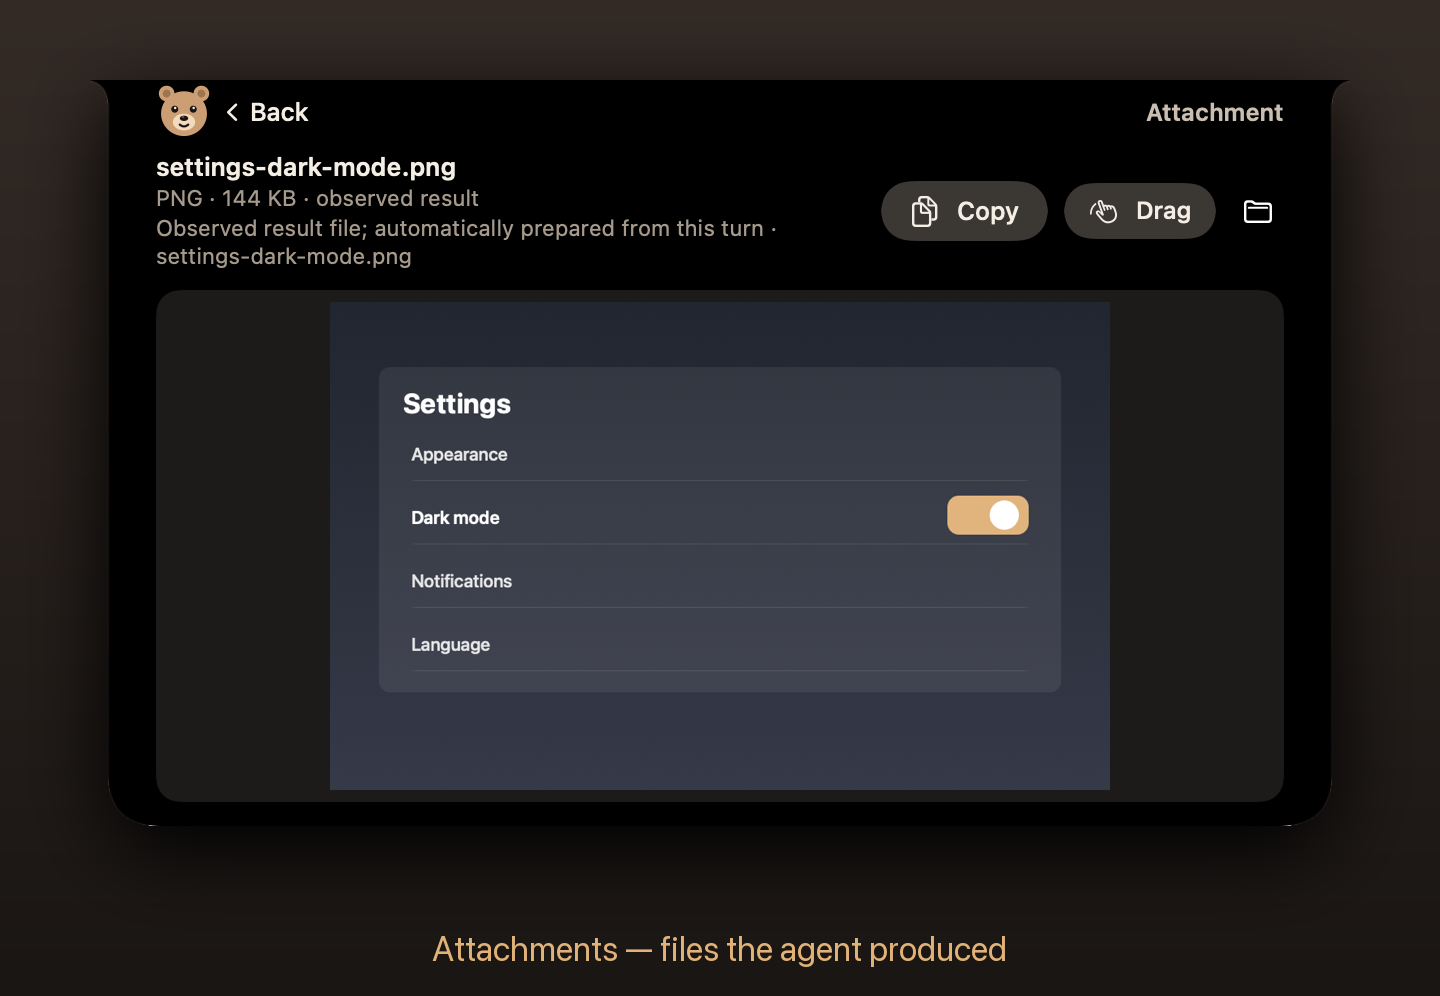
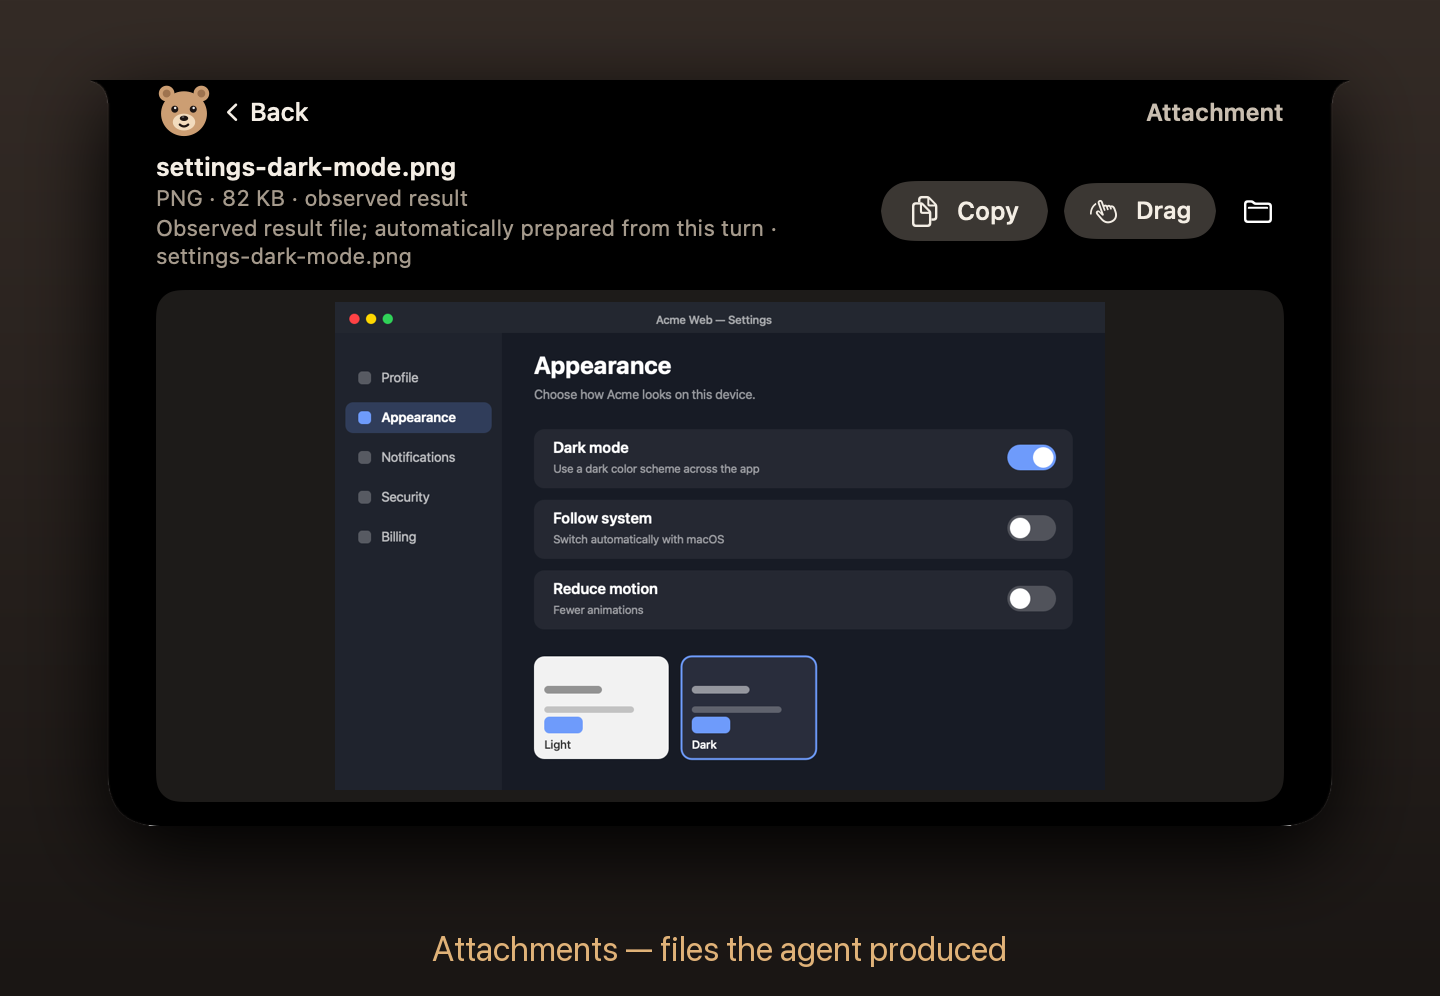
README: realistic app screenshot for the attachment, static diagram instead of the mermaid chart

Changed region(s): [[0.2188, 0.3112, 0.7812, 0.8092], [0.1562, 0.1867, 0.3438, 0.2179], [0.25, 0.3112, 0.2812, 0.3424]]

diff --git a/macos/Tests/PromptRelayKitTests/ReadmeVisualsTests.swift b/macos/Tests/PromptRelayKitTests/ReadmeVisualsTests.swift
@@ -21,27 +21,51 @@ extension Phase6VisualTests {
     All 42 tests pass (`npm test`). I also wrote a short note for the release: `release-notes.md`.
     """
 
-    /// A believable settings-page picture for the attachment (no green square).
+    /// A believable app screenshot for the attachment: a settings page with a sidebar and
+    /// Dark mode switched on (drawn, so the README images never contain real data).
     static func settingsMockPNG() -> Data {
-        let size = NSSize(width: 960, height: 600)
+        let size = NSSize(width: 1200, height: 760)
+        let accent = NSColor(calibratedRed: 0.36, green: 0.52, blue: 0.98, alpha: 1)
         let image = NSImage(size: size, flipped: false) { rect in
-            NSGradient(colors: [NSColor(calibratedRed: 0.10, green: 0.11, blue: 0.14, alpha: 1),
-                                NSColor(calibratedRed: 0.16, green: 0.17, blue: 0.22, alpha: 1)])!.draw(in: rect, angle: -90)
-            func card(_ r: NSRect, _ fill: NSColor) { fill.setFill(); NSBezierPath(roundedRect: r, xRadius: 14, yRadius: 14).fill() }
-            card(NSRect(x: 60, y: 120, width: 840, height: 400), NSColor(white: 1, alpha: 0.07))
-            let title = NSAttributedString(string: "Settings", attributes: [.font: NSFont.systemFont(ofSize: 34, weight: .bold), .foregroundColor: NSColor.white])
-            title.draw(at: NSPoint(x: 90, y: 456))
-            let rows = ["Appearance", "Dark mode", "Notifications", "Language"]
-            for (i, row) in rows.enumerated() {
-                let y = CGFloat(400 - i * 78)
-                NSAttributedString(string: row, attributes: [.font: NSFont.systemFont(ofSize: 22, weight: row == "Dark mode" ? .semibold : .medium),
-                                                              .foregroundColor: NSColor(white: row == "Dark mode" ? 1 : 0.9, alpha: 1)])
-                    .draw(at: NSPoint(x: 100, y: y))
-                card(NSRect(x: 100, y: y - 20, width: 760, height: 1), NSColor(white: 1, alpha: 0.12))
-                if row == "Dark mode" {
-                    card(NSRect(x: 760, y: y - 8, width: 100, height: 48), NSColor(calibratedRed: 0.85, green: 0.65, blue: 0.42, alpha: 1))
-                    NSColor.white.setFill(); NSBezierPath(ovalIn: NSRect(x: 812, y: y - 2, width: 36, height: 36)).fill()
-                }
+            func fill(_ r: NSRect, _ c: NSColor, _ radius: CGFloat = 0) { c.setFill(); NSBezierPath(roundedRect: r, xRadius: radius, yRadius: radius).fill() }
+            func text(_ t: String, _ p: NSPoint, _ size: CGFloat, _ weight: NSFont.Weight = .regular, _ c: NSColor = .white) {
+                NSAttributedString(string: t, attributes: [.font: NSFont.systemFont(ofSize: size, weight: weight), .foregroundColor: c]).draw(at: p)
+            }
+            fill(rect, NSColor(calibratedRed: 0.07, green: 0.08, blue: 0.11, alpha: 1))
+            // window bar
+            fill(NSRect(x: 0, y: 712, width: 1200, height: 48), NSColor(white: 1, alpha: 0.05))
+            for (i, c) in [NSColor.systemRed, .systemYellow, .systemGreen].enumerated() { fill(NSRect(x: 22 + CGFloat(i) * 26, y: 726, width: 16, height: 16), c, 8) }
+            text("Acme Web — Settings", NSPoint(x: 500, y: 722), 18, .medium, NSColor(white: 1, alpha: 0.6))
+            // sidebar
+            fill(NSRect(x: 0, y: 0, width: 260, height: 712), NSColor(white: 1, alpha: 0.035))
+            for (i, item) in ["Profile", "Appearance", "Notifications", "Security", "Billing"].enumerated() {
+                let y = CGFloat(630 - i * 62)
+                if item == "Appearance" { fill(NSRect(x: 16, y: y - 12, width: 228, height: 48), accent.withAlphaComponent(0.22), 12) }
+                fill(NSRect(x: 36, y: y + 2, width: 20, height: 20), item == "Appearance" ? accent : NSColor(white: 1, alpha: 0.25), 6)
+                text(item, NSPoint(x: 72, y: y), 21, item == "Appearance" ? .semibold : .regular, item == "Appearance" ? .white : NSColor(white: 1, alpha: 0.7))
+            }
+            // content
+            text("Appearance", NSPoint(x: 310, y: 640), 38, .bold)
+            text("Choose how Acme looks on this device.", NSPoint(x: 310, y: 604), 20, .regular, NSColor(white: 1, alpha: 0.55))
+            func row(_ y: CGFloat, _ title: String, _ sub: String, on: Bool) {
+                fill(NSRect(x: 310, y: y, width: 840, height: 92), NSColor(white: 1, alpha: 0.06), 16)
+                text(title, NSPoint(x: 340, y: y + 50), 24, .semibold)
+                text(sub, NSPoint(x: 340, y: y + 20), 18, .regular, NSColor(white: 1, alpha: 0.55))
+                fill(NSRect(x: 1048, y: y + 28, width: 76, height: 40), on ? accent : NSColor(white: 1, alpha: 0.2), 20)
+                fill(NSRect(x: on ? 1088 : 1052, y: y + 32, width: 32, height: 32), .white, 16)
+            }
+            row(470, "Dark mode", "Use a dark color scheme across the app", on: true)
+            row(360, "Follow system", "Switch automatically with macOS", on: false)
+            row(250, "Reduce motion", "Fewer animations", on: false)
+            // theme preview cards
+            for (i, (name, dark)) in [("Light", false), ("Dark", true)].enumerated() {
+                let x = CGFloat(310 + i * 230)
+                fill(NSRect(x: x, y: 48, width: 210, height: 160), dark ? NSColor(calibratedRed: 0.12, green: 0.13, blue: 0.18, alpha: 1) : NSColor(white: 0.95, alpha: 1), 16)
+                fill(NSRect(x: x + 16, y: 150, width: 90, height: 12), dark ? NSColor(white: 1, alpha: 0.5) : NSColor(white: 0.2, alpha: 0.5), 6)
+                fill(NSRect(x: x + 16, y: 120, width: 140, height: 10), dark ? NSColor(white: 1, alpha: 0.25) : NSColor(white: 0.2, alpha: 0.25), 5)
+                fill(NSRect(x: x + 16, y: 28 + 60, width: 60, height: 26), accent, 8)
+                text(name, NSPoint(x: x + 16, y: 60), 18, .medium, dark ? .white : NSColor(white: 0.2, alpha: 1))
+                if dark { NSColor.white.withAlphaComponent(0.9).setStroke(); let b = NSBezierPath(roundedRect: NSRect(x: x, y: 48, width: 210, height: 160), xRadius: 16, yRadius: 16); b.lineWidth = 3; accent.setStroke(); b.stroke() }
             }
             return true
         }

diff --git a/scripts/make-diagram.py b/scripts/make-diagram.py
@@ -1,0 +1,41 @@
+#!/usr/bin/env python3
+"""Draws docs/images/readme/how-it-works.png (the README diagram)."""
+import sys
+from PIL import Image, ImageDraw, ImageFont
+
+out = sys.argv[1] if len(sys.argv) > 1 else "docs/images/readme/how-it-works.png"
+W, H = 2400, 760
+img = Image.new("RGB", (W, H))
+d = ImageDraw.Draw(img)
+for y in range(H):
+    t = y / H
+    d.line([(0, y), (W, y)], fill=tuple(int(a * (1 - t) + b * t) for a, b in zip((52, 43, 38), (26, 22, 20))))
+f_title = ImageFont.truetype("/System/Library/Fonts/SFNS.ttf", 52)
+f_body = ImageFont.truetype("/System/Library/Fonts/SFNS.ttf", 36)
+f_num = ImageFont.truetype("/System/Library/Fonts/SFNS.ttf", 40)
+steps = [
+    ("Your agent", ["Claude Code or Codex", "does the work as usual"]),
+    ("Prompt Relay", ["Keeps the final answer", "exactly as written, with the", "request, project and files"]),
+    ("Copy", ["Copy Answer, or Copy with", "Context for a reviewer:", "every claim labelled"]),
+    ("Paste anywhere", ["ChatGPT, another Claude", "chat, a teammate"]),
+]
+bw, bh, gap = 480, 500, 120
+x0 = (W - (4 * bw + 3 * gap)) // 2
+y0 = 140
+accent = (217, 166, 107)
+for i, (title, lines) in enumerate(steps):
+    x = x0 + i * (bw + gap)
+    hl = i == 1
+    d.rounded_rectangle([x, y0, x + bw, y0 + bh], radius=36, fill=(58, 48, 42) if hl else (40, 34, 31),
+                        outline=accent if hl else (86, 74, 66), width=5 if hl else 3)
+    d.ellipse([x + 36, y0 + 36, x + 104, y0 + 104], fill=accent)
+    d.text((x + 70, y0 + 70), str(i + 1), font=f_num, fill=(30, 24, 20), anchor="mm")
+    d.text((x + 36, y0 + 150), title, font=f_title, fill=(255, 255, 255))
+    for j, line in enumerate(lines):
+        d.text((x + 36, y0 + 235 + j * 54), line, font=f_body, fill=(206, 196, 186))
+    if i < 3:
+        ax = x + bw + 16
+        ay = y0 + bh // 2
+        d.line([(ax, ay), (ax + gap - 40, ay)], fill=accent, width=8)
+        d.polygon([(ax + gap - 40, ay - 22), (ax + gap - 4, ay), (ax + gap - 40, ay + 22)], fill=accent)
+img.resize((W // 2, H // 2), Image.LANCZOS).save(out, optimize=True)

diff --git a/README.md b/README.md
@@ -27,12 +27,9 @@ Prompt Relay sits between your AI coding agent and the next chat you want to
 paste into. It never talks to the agent itself; it just keeps what the agent
 already said.
 
-```mermaid
-flowchart LR
-  A["1 · Your agent<br/>Claude Code, Codex"] --> B["2 · Prompt Relay<br/>keeps the answer, verbatim"]
-  B --> C["3 · Copy"]
-  C --> D["4 · Paste anywhere<br/>ChatGPT, Claude, a teammate"]
-```
+<p align="center">
+  <img src="docs/images/readme/how-it-works.png" width="900" alt="Your agent, then Prompt Relay keeps the answer, then Copy, then paste anywhere">
+</p>
 
 1. **Work as usual** in Claude Code or Codex.
 2. When the agent finishes, Prompt Relay saves the final answer exactly as written, with the request, the project and the files it wrote. Everything stays on your Mac.
